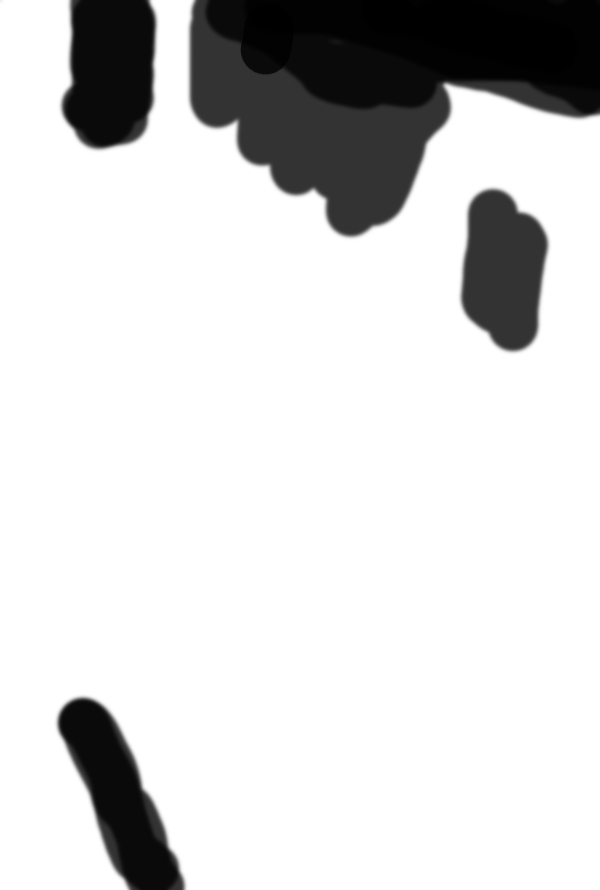
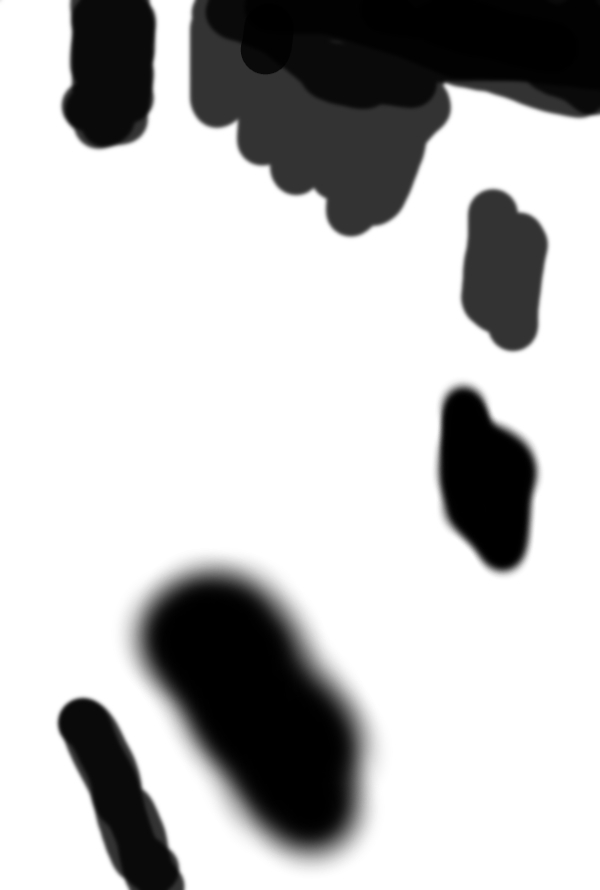
Add README.md Fix percent printing. Update background mask.

Changed region(s): [[0.21, 0.6067, 0.63, 1.0], [0.72, 0.4247, 0.9, 0.6674]]

diff --git a/coffee_monitor.py b/coffee_monitor.py
@@ -23,7 +23,7 @@ def monitor_coffee_machine(min_area=500, debug=False):
                     detector.debug_process(img, "debug/%s" % now, min_area)
                 percent = detector.compute_percent_occupation(img, min_area)
                 with term.location(0, 0):
-                    if percent:
+                    if int(percent) > 0:
                         print("{t.clear}The coffee machine is: {t.red}{t.bold}occuped ({percent})%{t.normal}.".format(t=term, percent=int(percent)))
                     else:
                         print("{t.clear}The coffee machine is: {t.green}{t.bold}free{t.normal}.".format(t=term))

diff --git a/README.md b/README.md
@@ -1,0 +1,28 @@
+#Can I Make Coffee ?
+
+### What is it ?:
+This is a simple little camera based movement detector. Specially designed to detect if the 42 coffee machine are free.
+
+### How it works ?:
+It's based on scam.42.fr (so you can't use it outside of 42). And OpenCV library for movement detection.
+
+### Demo:
+![coffee3](https://cloud.githubusercontent.com/assets/8771783/20031916/ea8af6a6-a37f-11e6-8279-45005bd6f39c.gif)
+
+## Installation:
+
+### Requirements:
+- python3
+- pip
+- virtualenv
+
+### How to:
+    # Git clone the project
+    git clone https://github.com/avallete/CanIMakeCoffee.git; cd CanIMakeCofee
+    # Create and activate virtualenv
+    virtualenv --python=python3 venv; source venv/bin/activate
+    # Install project requirements
+    pip install -r requirements.txt
+    # Run the script
+    python ./coffee_monitor.py
+
